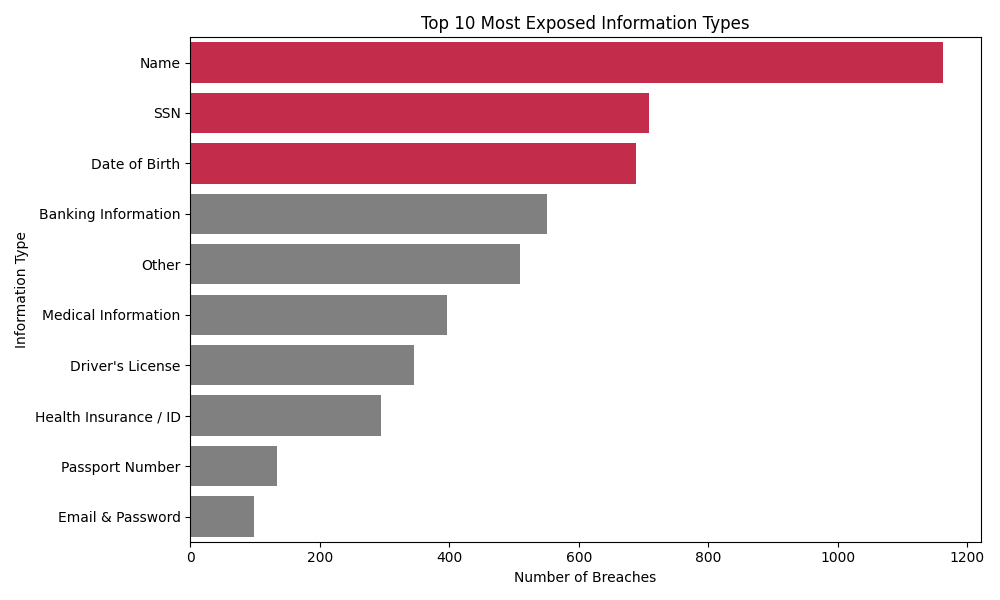
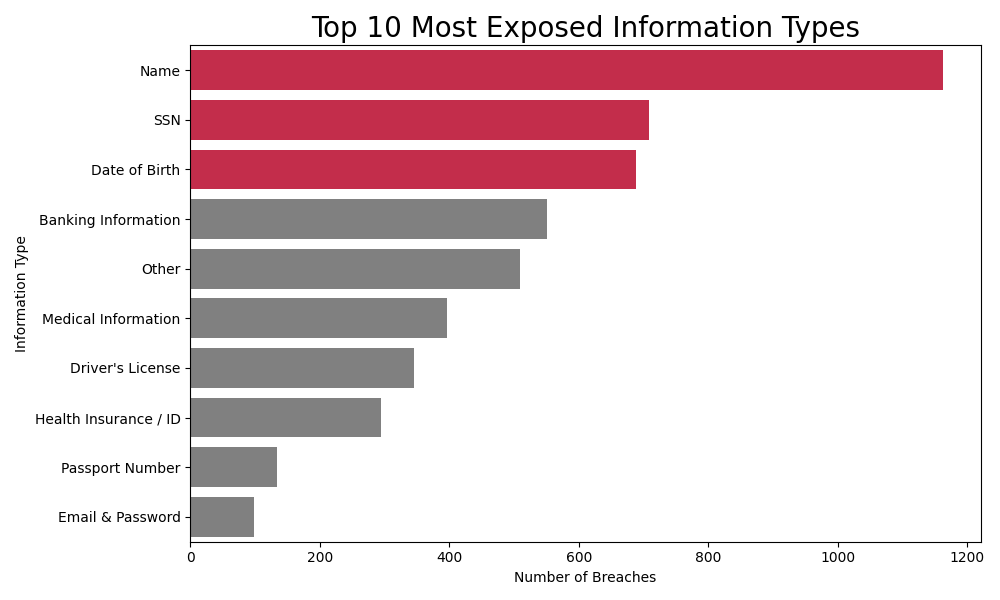
Updates by Elina

diff --git a/H2_data_type_exposure_counts.py b/H2_data_type_exposure_counts.py
@@ -47,7 +47,7 @@ colors = ['crimson' if info in highlight else 'gray' for info in top10_info_coun
 plt.figure(figsize=(10, 6))
 sns.barplot(data=top10_info_counts, y='InformationType', x='Count', palette=colors)
 
-plt.title('Top 10 Most Exposed Information Types')
+plt.title('Top 10 Most Exposed Information Types', fontsize=20)
 plt.xlabel('Number of Breaches')
 plt.ylabel('Information Type')
 plt.tight_layout()
@@ -87,7 +87,7 @@ colors = ['crimson' if dtype in highlight else 'gray' for dtype in sensitivity_c
 plt.figure(figsize=(10, 6))
 sns.barplot(data=sensitivity_counts, y='DataType', x='Count', palette=colors)
 
-plt.title('Frequency of Leaked Data Types (Kaggle Dataset)', fontsize=14)
+plt.title('Frequency of Leaked Data Types (Kaggle Dataset)', fontsize=20)
 plt.xlabel('Number of Breaches')
 plt.ylabel('Data Type')
 plt.tight_layout()
